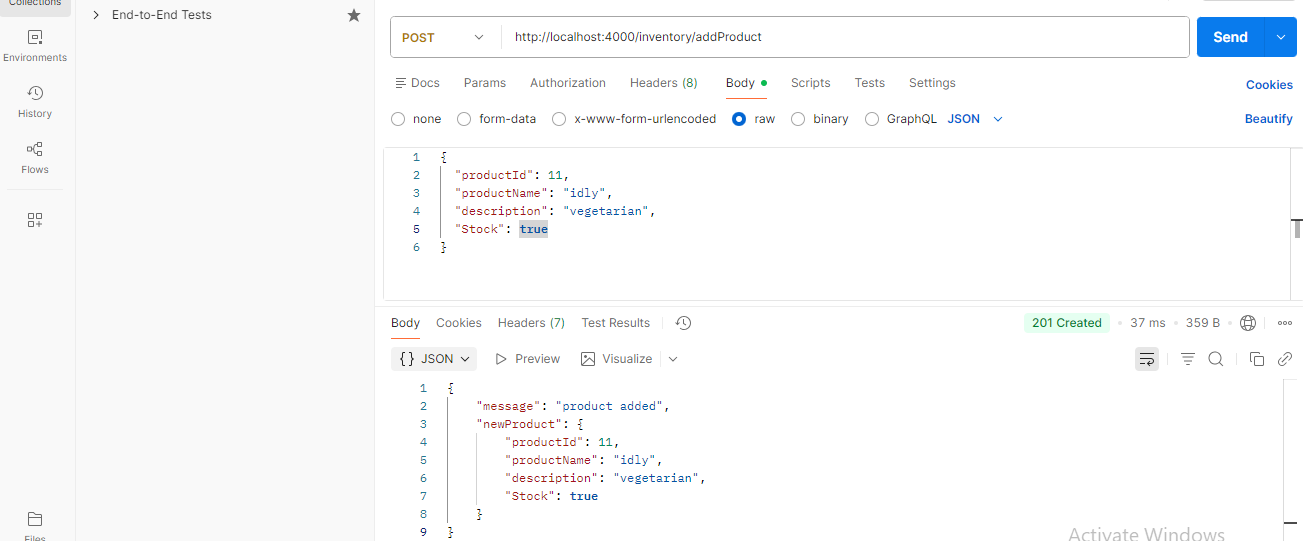
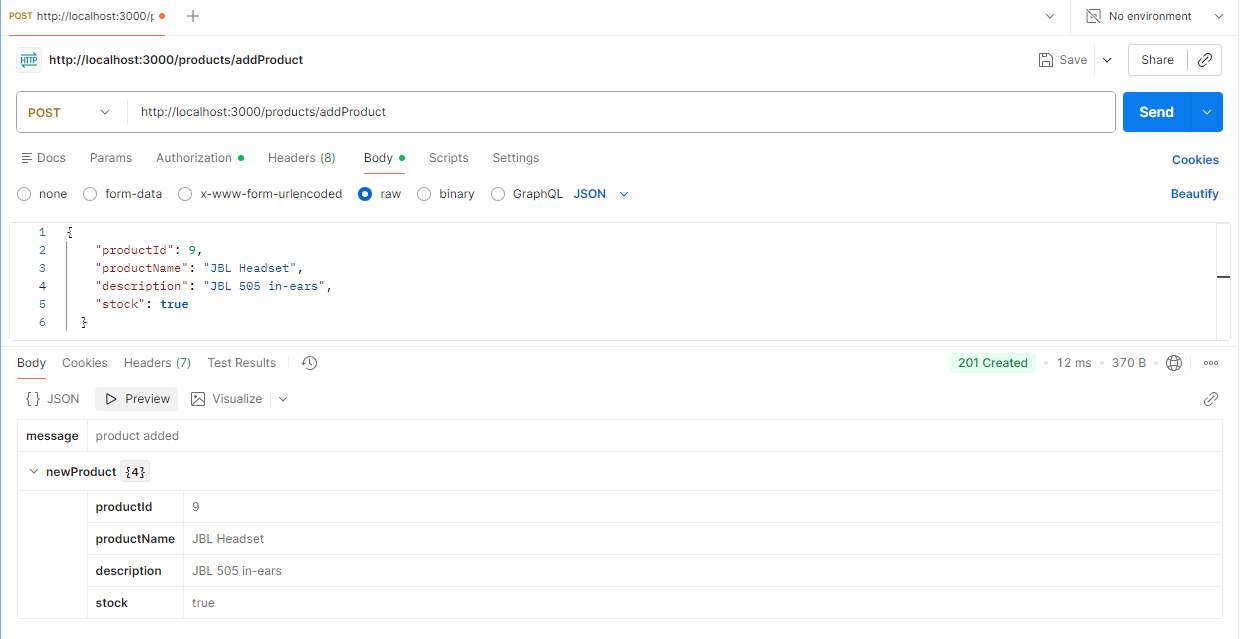
initial setup

diff --git a/controllers/productController.js b/controllers/productController.js
@@ -32,19 +32,22 @@ exports.deleteProduct = (req, res) => {
   let products = loadProducts();
   products = products.filter(p => p.productId !== productId);
   saveProduct(products);
-  res.status(200).json({ message: `${productId} deleted successfully` });
+  res.status(200).json({ message: `Product deleted successfully` });
 
 }
 //update product 
 
 exports.updateProduct = (req, res) => {
   const productId = parseInt(req.params.id);
+  console.log(req.body);
   const products = loadProducts();
   let product = products.find(p => p.productId === productId)
   if (product) {
-    product.description = "Preferred by Both Vegetarians and Non Vegetarians";
+    product.productName = req.body.productName;
+    product.description = req.body.description;
+    product.stock = req.body.stock;
     saveProduct(products);
-    res.status(200).json({ message: `${productId} updated successfully` ,product});
+    res.status(200).json({ message: `Updated successfully` ,product});
   }
   else {
     res.status(404).json({ message: "Product not found" });

diff --git a/server.js b/server.js
@@ -9,7 +9,7 @@ app.use(express.json());
 app.use('/products',productRoutes);
 
 
-const port = 4000;
+const port = 3000;
 app.listen(port,()=>{
     console.log(`server is running  on port ${port}`)
 });
